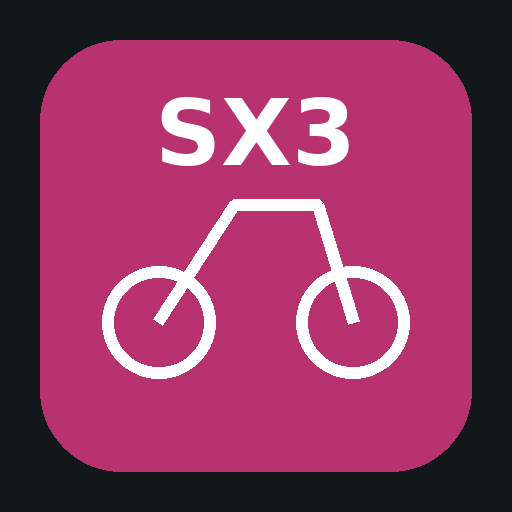
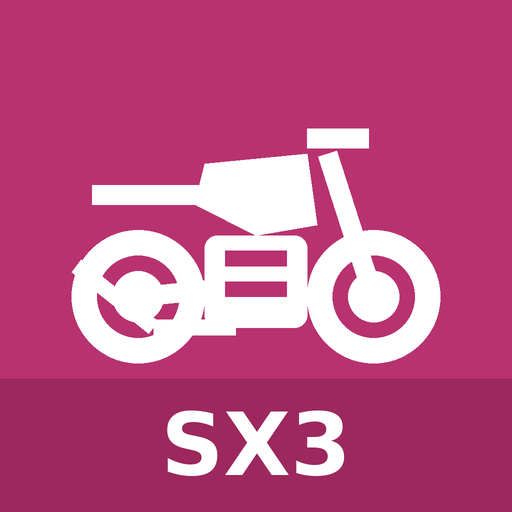
Add files via upload

diff --git a/index.html b/index.html
@@ -7,8 +7,8 @@
 <link rel="manifest" href="manifest.json">
 <meta name="theme-color" content="#b8326f">
 <meta name="mobile-web-app-capable" content="yes">
-<link rel="icon" href="icons/icon-192.png">
-<link rel="apple-touch-icon" href="icons/icon-192.png">
[2 lines of base64/hex data omitted]
 <link rel="stylesheet" href="https://fonts.googleapis.com/css2?family=Barlow+Semi+Condensed:wght@500;600;700&family=Barlow:wght@400;500&display=swap">
 <style>
 :root{--bg:#eef1f3;--sf:#fff;--ink:#1b2227;--mut:#5d6a73;--ln:#d5dce1;--ac:#b8326f;--acs:#f8e1ec;--ok:#277a4d;--oks:#dff0e6;--wa:#9a5b00;--was:#fbeccf;--bad:#b3261e;--bads:#f8dcd9;box-sizing:border-box;padding-top:env(safe-area-inset-top,0px);padding-bottom:env(safe-area-inset-bottom,0px)}

diff --git a/sw.js b/sw.js
@@ -1,7 +1,15 @@
-var CACHE="sx3-bitacora-v1";
-var FILES=["./","./index.html","./manifest.json","./icons/icon-192.png","./icons/icon-512.png"];
-self.addEventListener("install",function(e){e.waitUntil(caches.open(CACHE).then(function(c){return c.addAll(FILES)}).then(function(){return self.skipWaiting()}))});
-self.addEventListener("activate",function(e){e.waitUntil(caches.keys().then(function(ks){return Promise.all(ks.filter(function(k){return k!==CACHE}).map(function(k){return caches.delete(k)}))}).then(function(){return self.clients.claim()}))});
+var CACHE="sx3-bitacora-v2";
+var FILES=["./","./index.html","./manifest.json"];
+self.addEventListener("install",function(e){
+  e.waitUntil(caches.open(CACHE).then(function(c){
+    return Promise.all(FILES.map(function(f){return c.add(f).catch(function(){})}));
+  }).then(function(){return self.skipWaiting()}));
+});
+self.addEventListener("activate",function(e){
+  e.waitUntil(caches.keys().then(function(ks){
+    return Promise.all(ks.filter(function(k){return k!==CACHE}).map(function(k){return caches.delete(k)}));
+  }).then(function(){return self.clients.claim()}));
+});
 self.addEventListener("fetch",function(e){
   if(e.request.method!=="GET")return;
   e.respondWith(caches.match(e.request).then(function(r){
